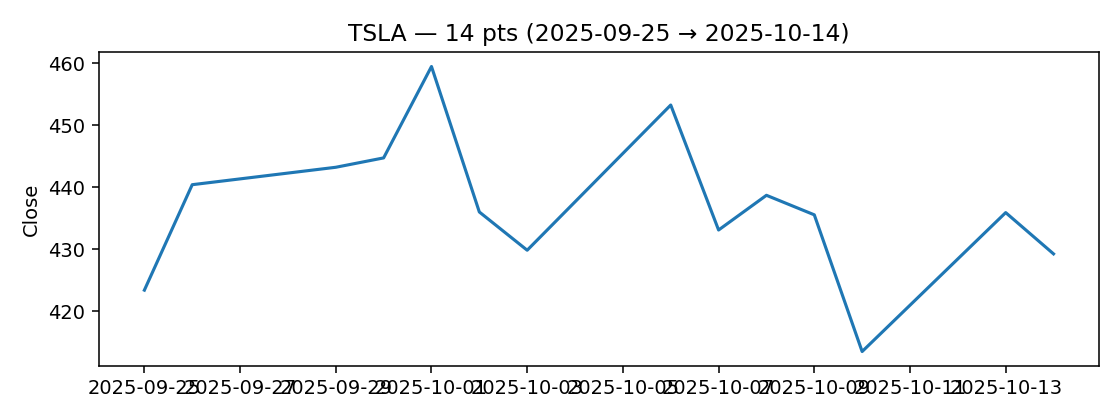
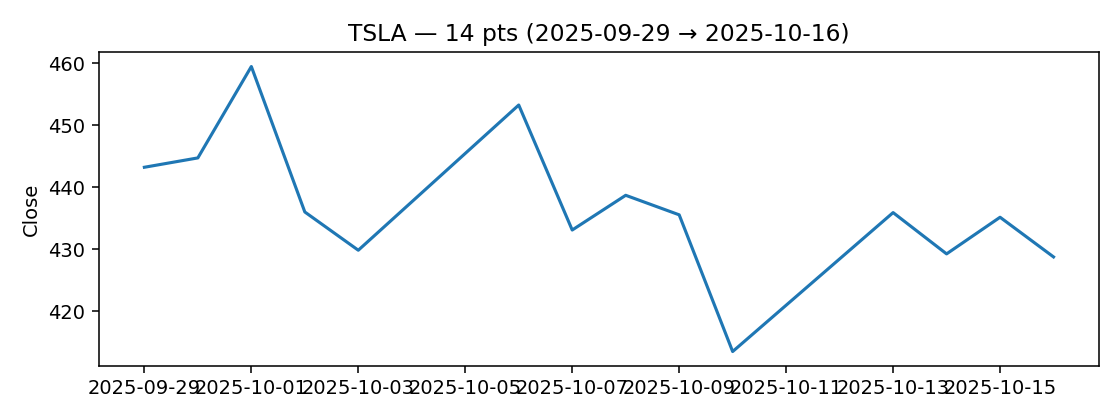
chore: update daily report 2025-10-17 09:00

diff --git a/docs/daily_report.html b/docs/daily_report.html
@@ -108,7 +108,7 @@
   <header>
     <div>
       <h1>Daily Study & News Companion</h1>
-      <div class="sub">2025-10-16 08:29 · TZ: CST</div>
+      <div class="sub">2025-10-17 09:00 · TZ: CST</div>
     </div>
     <button class="btn" id="themeBtn">🌓 Tema</button>
   </header>
@@ -150,11 +150,11 @@
           </div>
           <div class="mkt-body">
             <div class="metrics-row">
-          <div class="kv"><span>Last</span><b>215.57</b></div>
-          <div class="kv"><span>d/d</span><b class="down">-1.92%</b></div>
-          <div class="kv"><span>Mín</span><b>215.57</b></div>
+          <div class="kv"><span>Last</span><b>214.47</b></div>
+          <div class="kv"><span>d/d</span><b class="down">-3.47%</b></div>
+          <div class="kv"><span>Mín</span><b>214.47</b></div>
           <div class="kv"><span>Máx</span><b>227.74</b></div>
-          <div class="kv"><span>σ</span><b>3.20</b></div>
+          <div class="kv"><span>σ</span><b>3.57</b></div>
         </div>
             <div class="chart"><img src="charts/AMZN_close.png" alt="AMZN chart" loading="lazy"/></div>
           </div>
@@ -167,11 +167,11 @@
           </div>
           <div class="mkt-body">
             <div class="metrics-row">
-          <div class="kv"><span>Last</span><b>513.43</b></div>
-          <div class="kv"><span>d/d</span><b class="up">0.39%</b></div>
+          <div class="kv"><span>Last</span><b>511.61</b></div>
+          <div class="kv"><span>d/d</span><b class="down">-0.58%</b></div>
           <div class="kv"><span>Mín</span><b>510.96</b></div>
           <div class="kv"><span>Máx</span><b>528.57</b></div>
-          <div class="kv"><span>σ</span><b>5.22</b></div>
+          <div class="kv"><span>σ</span><b>5.21</b></div>
         </div>
             <div class="chart"><img src="charts/MSFT_close.png" alt="MSFT chart" loading="lazy"/></div>
           </div>
@@ -184,13 +184,30 @@
           </div>
           <div class="mkt-body">
             <div class="metrics-row">
-          <div class="kv"><span>Last</span><b>179.83</b></div>
-          <div class="kv"><span>d/d</span><b class="up">0.92%</b></div>
-          <div class="kv"><span>Mín</span><b>178.19</b></div>
+          <div class="kv"><span>Last</span><b>181.81</b></div>
+          <div class="kv"><span>d/d</span><b class="down">-0.02%</b></div>
+          <div class="kv"><span>Mín</span><b>179.83</b></div>
           <div class="kv"><span>Máx</span><b>192.57</b></div>
-          <div class="kv"><span>σ</span><b>4.01</b></div>
+          <div class="kv"><span>σ</span><b>3.64</b></div>
         </div>
             <div class="chart"><img src="charts/NVDA_close.png" alt="NVDA chart" loading="lazy"/></div>
+          </div>
+        </div>
+        
+        <div class="mkt-card">
+          <div class="mkt-head">
+            <div class="ticker">TSLA</div>
+            <button class="mini pill" onclick="this.closest('.mkt-card').classList.toggle('big')">↕</button>
+          </div>
+          <div class="mkt-body">
+            <div class="metrics-row">
+          <div class="kv"><span>Last</span><b>428.75</b></div>
+          <div class="kv"><span>d/d</span><b class="down">-3.26%</b></div>
+          <div class="kv"><span>Mín</span><b>413.49</b></div>
+          <div class="kv"><span>Máx</span><b>459.46</b></div>
+          <div class="kv"><span>σ</span><b>10.77</b></div>
+        </div>
+            <div class="chart"><img src="charts/TSLA_close.png" alt="TSLA chart" loading="lazy"/></div>
           </div>
         </div>
         
@@ -201,11 +218,11 @@
           </div>
           <div class="mkt-body">
             <div class="metrics-row">
-          <div class="kv"><span>Last</span><b>665.17</b></div>
-          <div class="kv"><span>d/d</span><b class="up">0.51%</b></div>
+          <div class="kv"><span>Last</span><b>660.64</b></div>
+          <div class="kv"><span>d/d</span><b class="down">-0.46%</b></div>
           <div class="kv"><span>Mín</span><b>653.02</b></div>
           <div class="kv"><span>Máx</span><b>673.11</b></div>
-          <div class="kv"><span>σ</span><b>5.07</b></div>
+          <div class="kv"><span>σ</span><b>5.15</b></div>
         </div>
             <div class="chart"><img src="charts/^GSPC_close.png" alt="^GSPC chart" loading="lazy"/></div>
           </div>
@@ -233,38 +250,38 @@
             <ul class="news-list">
               <li class="news-item" data-topic="AI">
                 <span class="dot"></span>
-                <a href="https://www.bloomberg.com/news/articles/2025-10-16/uber-giving-some-us-drivers-option-to-earn-money-from-tasks-like-uploading-menus" target="_blank" rel="noreferrer">Uber Launches Data Tasks as Option for Some US Drivers to Earn Money</a>
-                <div class="meta">2025-10-16 13:29 · <span class="src">Natalie Lung</span></div>
+                <a href="https://www.bloomberg.com/news/articles/2025-10-17/openai-s-deals-with-broadcom-amd-show-how-big-ai-market-can-be" target="_blank" rel="noreferrer">OpenAI’s Deals With Broadcom and AMD Show How Big AI Market Can Be</a>
+                <div class="meta">2025-10-17 10:28 · <span class="src">Carmen Reinicke, Ryan Vlastelica</span></div>
               </li>
             
               <li class="news-item" data-topic="AI">
                 <span class="dot"></span>
-                <a href="https://www.bloomberg.com/news/articles/2025-10-16/microsoft-wants-us-talking-to-windows-11-with-new-ai-features" target="_blank" rel="noreferrer">Microsoft Wants Us Talking to Windows 11 With New AI Features</a>
-                <div class="meta">2025-10-16 13:00 · <span class="src">Brody Ford, Matt Day</span></div>
+                <a href="https://www.bloomberg.com/news/articles/2025-10-17/openai-halts-mlk-depictions-in-sora-after-disrespectful-videos" target="_blank" rel="noreferrer">OpenAI Halts Depictions of MLK After ‘Disrespectful’ Videos</a>
+                <div class="meta">2025-10-17 08:54 · <span class="src">Shona Ghosh</span></div>
               </li>
             
               <li class="news-item" data-topic="AI">
                 <span class="dot"></span>
-                <a href="https://www.bloomberg.com/news/articles/2025-10-16/intel-amd-equity-giveaways-send-stocks-soaring-despite-dilution" target="_blank" rel="noreferrer">Intel, AMD Equity Giveaways Send Stocks Soaring Despite Dilution</a>
-                <div class="meta">2025-10-16 10:48 · <span class="src">Jeran Wittenstein, Carmen Reinicke</span></div>
+                <a href="https://www.bloomberg.com/news/articles/2025-10-17/nigeria-ai-data-center-projects-draw-in-1-billion-investment" target="_blank" rel="noreferrer">AI Boom Sparks Billion-Dollar Data Center Race in Nigeria</a>
+                <div class="meta">2025-10-17 04:00 · <span class="src">Ruth Olurounbi</span></div>
               </li>
             
               <li class="news-item" data-topic="AI">
                 <span class="dot"></span>
-                <a href="https://www.bloomberg.com/news/articles/2025-10-16/infosys-narrows-revenue-outlook-as-clients-resume-it-spending" target="_blank" rel="noreferrer">Infosys Lifts Sales Outlook on Hopes of Rebound in IT Spends</a>
-                <div class="meta">2025-10-16 10:48 · <span class="src">Sankalp Phartiyal</span></div>
+                <a href="https://www.bloomberg.com/news/newsletters/2025-10-16/why-openai-is-pushing-to-design-its-own-ai-chips" target="_blank" rel="noreferrer">Why OpenAI Is Pushing to Design Its Own AI Chips</a>
+                <div class="meta">2025-10-16 20:32 · <span class="src">Shirin Ghaffary</span></div>
               </li>
             
               <li class="news-item" data-topic="AI">
                 <span class="dot"></span>
-                <a href="https://www.bloomberg.com/news/articles/2025-10-16/nvidia-partners-in-2-9-billion-australia-data-center-drive" target="_blank" rel="noreferrer">Nvidia Partners in $2.9 Billion Australia Data Center Drive</a>
-                <div class="meta">2025-10-16 04:40 · <span class="src">Keira Wright</span></div>
+                <a href="https://www.bloomberg.com/news/videos/2025-10-16/bloomberg-tech-10-16-2025-video" target="_blank" rel="noreferrer">TSMC Beats Expectations, Raises Revenue Outlook | Bloomberg Tech 10/16/2025</a>
+                <div class="meta">2025-10-16 20:26 · <span class="src">www.bloomberg.com</span></div>
               </li>
             
               <li class="news-item" data-topic="AI">
                 <span class="dot"></span>
-                <a href="https://www.bloomberg.com/news/articles/2025-10-15/ken-griffin-says-genai-fails-to-help-hedge-funds-produce-alpha" target="_blank" rel="noreferrer">Griffin Says GenAI Fails to Help Hedge Funds Beat Markets</a>
-                <div class="meta">2025-10-15 23:10 · <span class="src">Hema Parmar</span></div>
+                <a href="https://www.bloomberg.com/news/articles/2025-10-16/benioff-slammed-by-longtime-vc-ally-over-call-for-troops-in-san-francisco" target="_blank" rel="noreferrer">Benioff Slammed by Longtime VC Ally Over Call for Troops in San Francisco</a>
+                <div class="meta">2025-10-16 20:12 · <span class="src">Biz Carson, Felipe Marques</span></div>
               </li>
             </ul>
           </div>
@@ -274,38 +291,38 @@
             <ul class="news-list">
               <li class="news-item" data-topic="Fintech">
                 <span class="dot"></span>
-                <a href="https://www.bloomberg.com/news/videos/2025-10-16/fed-s-waller-on-careful-rate-cuts-labor-market-ai-video" target="_blank" rel="noreferrer">Fed’s Waller on Careful Rate Cuts, Labor Market Concerns, AI</a>
-                <div class="meta">2025-10-16 12:46 · <span class="src">www.bloomberg.com</span></div>
+                <a href="https://www.bloomberg.com/news/articles/2025-10-17/central-banker-sees-colombia-interest-rate-hike-on-the-table" target="_blank" rel="noreferrer">Central Banker Sees Colombia Interest Rate Hike on the Table</a>
+                <div class="meta">2025-10-17 13:30 · <span class="src">Zijia Song, Oscar Medina</span></div>
               </li>
             
               <li class="news-item" data-topic="Fintech">
                 <span class="dot"></span>
-                <a href="https://www.bloomberg.com/news/articles/2025-10-16/varde-backed-spanish-bank-plans-srt-tied-to-credit-card-loans" target="_blank" rel="noreferrer">Varde-Backed Spanish Bank Plans SRT Tied to Credit Card Loans</a>
-                <div class="meta">2025-10-16 12:19 · <span class="src">Esteban Duarte, Jorge Zuloaga</span></div>
+                <a href="https://www.bloomberg.com/news/videos/2025-10-17/the-opening-trade-10-17-video" target="_blank" rel="noreferrer">Credit Jitters Deepen Bank Losses, Defense Stocks Fall on Trump-Putin Meeting | Opening Trade 10/17</a>
+                <div class="meta">2025-10-17 13:05 · <span class="src">www.bloomberg.com</span></div>
               </li>
             
               <li class="news-item" data-topic="Fintech">
                 <span class="dot"></span>
-                <a href="https://www.bloomberg.com/news/articles/2025-10-16/ecb-s-dolenc-sees-less-pronounced-inflation-undershoot-next-year" target="_blank" rel="noreferrer">ECB’s Dolenc Sees Less-Pronounced Inflation Undershoot Next Year</a>
-                <div class="meta">2025-10-16 12:16 · <span class="src">Mark Schroers, Alexander Weber</span></div>
+                <a href="https://www.bloomberg.com/news/articles/2025-10-17/bank-of-italy-cuts-growth-forecast-for-2026-on-trade-tensions" target="_blank" rel="noreferrer">Bank of Italy Cuts Growth Forecast for 2026 on Trade Tensions</a>
+                <div class="meta">2025-10-17 13:00 · <span class="src">Alessandra Migliaccio</span></div>
               </li>
             
               <li class="news-item" data-topic="Fintech">
                 <span class="dot"></span>
-                <a href="https://www.bloomberg.com/news/videos/2025-10-16/fed-s-waller-calls-for-cautious-approach-to-rate-cuts-video" target="_blank" rel="noreferrer">Fed’s Waller Calls for Cautious Approach to Rate Cuts</a>
-                <div class="meta">2025-10-16 12:08 · <span class="src">www.bloomberg.com</span></div>
+                <a href="https://www.bloomberg.com/news/videos/2025-10-17/deutsche-bank-ceo-sees-no-credit-deterioration" target="_blank" rel="noreferrer">Deutsche Bank CEO Sees No Credit Deterioration</a>
+                <div class="meta">2025-10-17 12:53 · <span class="src">www.bloomberg.com</span></div>
               </li>
             
               <li class="news-item" data-topic="Fintech">
                 <span class="dot"></span>
-                <a href="https://www.bloomberg.com/news/articles/2025-10-16/fintech-glow-raises-65-million-backed-by-apollo-cable-cowboy-malone" target="_blank" rel="noreferrer">Fintech Glow Raises $65 Million Backed by Apollo, ‘Cable Cowboy’ Malone</a>
-                <div class="meta">2025-10-16 11:00 · <span class="src">Jillian Deutsch</span></div>
+                <a href="https://www.bloomberg.com/news/articles/2025-10-17/france-pushes-europe-to-delay-bank-trading-capital-rules-again" target="_blank" rel="noreferrer">France Pushes EU to Delay Bank Trading Capital Rules Again</a>
+                <div class="meta">2025-10-17 10:03 · <span class="src">Claudia Cohen, Laura Noonan</span></div>
               </li>
             
               <li class="news-item" data-topic="Fintech">
                 <span class="dot"></span>
-                <a href="https://www.bloomberg.com/news/articles/2025-10-15/fcc-moves-to-boot-major-hong-kong-carrier-from-us-networks" target="_blank" rel="noreferrer">US Weighs Ban on Richard Li’s HKT as China Tensions Rise</a>
-                <div class="meta">2025-10-15 22:01 · <span class="src">Shirley Zhao, Kelcee Griffis</span></div>
+                <a href="https://www.bloomberg.com/news/articles/2025-10-16/stock-market-today-dow-s-p-live-updates" target="_blank" rel="noreferrer">Stocks Rise as Trump Soothes Wall Street Nerves: Market Wrap</a>
+                <div class="meta">2025-10-16 22:24 · <span class="src">Rita Nazareth</span></div>
               </li>
             </ul>
           </div>
@@ -315,38 +332,38 @@
             <ul class="news-list">
               <li class="news-item" data-topic="General">
                 <span class="dot"></span>
-                <a href="https://www.bloomberg.com/news/articles/2025-10-16/europe-s-ipo-wave-puts-discount-math-at-top-of-buyer-checklists" target="_blank" rel="noreferrer">Europe’s IPO Wave Puts Discount Math at Top of Buyer Checklists</a>
-                <div class="meta">2025-10-16 13:28 · <span class="src">Pablo Mayo Cerqueiro</span></div>
+                <a href="https://www.bloomberg.com/news/videos/2025-10-17/trump-calls-threatened-high-tariffs-on-china-not-sustainable" target="_blank" rel="noreferrer">Trump Says Threatened Tariffs on China ‘Not Sustainable’</a>
+                <div class="meta">2025-10-17 13:28 · <span class="src">www.bloomberg.com</span></div>
               </li>
             
               <li class="news-item" data-topic="General">
                 <span class="dot"></span>
-                <a href="https://www.bloomberg.com/news/articles/2025-10-16/miami-office-for-citadel-microsoft-gains-25-000-members-club" target="_blank" rel="noreferrer">Miami Office for Citadel, Microsoft Gains $25,000 Members Club</a>
-                <div class="meta">2025-10-16 13:14 · <span class="src">Anna J Kaiser</span></div>
+                <a href="https://www.bloomberg.com/news/articles/2025-10-17/fed-s-policy-benchmark-rate-rises-for-third-time-in-a-month" target="_blank" rel="noreferrer">Fed’s Policy Benchmark Rate Rises for Third Time in a Month</a>
+                <div class="meta">2025-10-17 13:14 · <span class="src">Alex Harris</span></div>
               </li>
             
               <li class="news-item" data-topic="General">
                 <span class="dot"></span>
-                <a href="https://www.bloomberg.com/news/videos/2025-10-16/us-energy-secretary-chris-wright-on-rising-energy-costs-video" target="_blank" rel="noreferrer">AI Infrastructure Will Make Electricity More Affordable, US Energy Secretary Says</a>
-                <div class="meta">2025-10-16 13:12 · <span class="src">www.bloomberg.com</span></div>
+                <a href="https://www.bloomberg.com/news/articles/2025-10-17/wall-street-races-to-sell-risky-etfs-as-crypto-crash-hits-retail" target="_blank" rel="noreferrer">Wall Street Races to Sell Risky ETFs as Crypto Crash Hits Retail</a>
+                <div class="meta">2025-10-17 13:04 · <span class="src">Isabelle Lee</span></div>
               </li>
             
               <li class="news-item" data-topic="General">
                 <span class="dot"></span>
-                <a href="https://www.bloomberg.com/news/articles/2025-10-16/fed-s-waller-calls-for-careful-rate-cuts-to-support-labor-market" target="_blank" rel="noreferrer">Fed’s Waller Calls for Careful Cuts, Miran Wants Bigger Move</a>
-                <div class="meta">2025-10-16 11:53 · <span class="src">Jonnelle Marte, Maria Eloisa Capurro, Amara Omeokwe</span></div>
+                <a href="https://www.bloomberg.com/news/articles/2025-10-17/us-initial-jobless-claims-fell-last-week-state-data-suggests" target="_blank" rel="noreferrer">US Initial Jobless Claims Fell Last Week, State Data Suggest</a>
+                <div class="meta">2025-10-17 12:59 · <span class="src">Nazmul Ahasan</span></div>
               </li>
             
               <li class="news-item" data-topic="General">
                 <span class="dot"></span>
-                <a href="https://www.bloomberg.com/news/articles/2025-10-16/indian-refiners-to-take-less-russian-oil-after-trump-comments" target="_blank" rel="noreferrer">India Refiners to Trim Russia Oil Buying as Trump Sows Confusion</a>
-                <div class="meta">2025-10-16 05:37 · <span class="src">Rakesh Sharma, Yongchang Chin</span></div>
+                <a href="https://www.bloomberg.com/news/articles/2025-10-17/bessent-says-us-treasury-bought-argentine-pesos-at-parallel-rate" target="_blank" rel="noreferrer">Argentina’s Peso Falls After US Treasury Intervenes Again</a>
+                <div class="meta">2025-10-17 12:58 · <span class="src">Patrick Gillespie, Nicolle Yapur</span></div>
               </li>
             
               <li class="news-item" data-topic="General">
                 <span class="dot"></span>
-                <a href="https://www.bloomberg.com/news/articles/2025-10-15/stock-market-today-dow-s-p-live-updates" target="_blank" rel="noreferrer">Stocks Get Tech Boost as TSMC Rekindles AI Wagers: Markets Wrap</a>
-                <div class="meta">2025-10-15 22:27 · <span class="src">Rita Nazareth</span></div>
+                <a href="https://www.bloomberg.com/news/articles/2025-10-17/arthur-hayes-family-office-seeks-250-million-for-buyout-fund" target="_blank" rel="noreferrer">Arthur Hayes’ Family Office Seeks $250 Million for Buyout Fund</a>
+                <div class="meta">2025-10-17 12:30 · <span class="src">Suvashree Ghosh</span></div>
               </li>
             </ul>
           </div>
@@ -356,38 +373,38 @@
             <ul class="news-list">
               <li class="news-item" data-topic="Machine Learning">
                 <span class="dot"></span>
-                <a href="https://www.bloomberg.com/news/videos/2025-10-16/premium-travel-is-driving-demand-united-airlines-ceo-says" target="_blank" rel="noreferrer">Premium Travel Is Driving Demand, United Airlines CEO Says</a>
-                <div class="meta">2025-10-16 13:22 · <span class="src">www.bloomberg.com</span></div>
+                <a href="https://www.bloomberg.com/news/videos/2025-10-17/ecb-s-sleijpen-sees-policy-in-a-good-place-video" target="_blank" rel="noreferrer">ECB’s Sleijpen Sees Policy ‘In a Good Place’</a>
+                <div class="meta">2025-10-17 14:10 · <span class="src">www.bloomberg.com</span></div>
               </li>
             
               <li class="news-item" data-topic="Machine Learning">
                 <span class="dot"></span>
-                <a href="https://www.bloomberg.com/news/articles/2025-10-16/driverless-waymos-set-to-deliver-doordash-orders-in-phoenix" target="_blank" rel="noreferrer">Driverless Waymos Set to Deliver DoorDash Orders in Phoenix</a>
-                <div class="meta">2025-10-16 13:00 · <span class="src">Natalie Lung</span></div>
+                <a href="https://www.bloomberg.com/news/articles/2025-10-17/giorgetti-says-italian-banks-can-help-pay-for-meloni-s-tax-cuts" target="_blank" rel="noreferrer">Giorgetti Says Italian Banks Can Help Pay for Meloni’s Tax Cuts</a>
+                <div class="meta">2025-10-17 13:15 · <span class="src">Donato Paolo Mancini</span></div>
               </li>
             
               <li class="news-item" data-topic="Machine Learning">
                 <span class="dot"></span>
-                <a href="https://www.bloomberg.com/news/articles/2025-10-16/manpowergroup-returns-to-growth-showing-stable-jobs-market" target="_blank" rel="noreferrer">ManpowerGroup Returns to Growth, Showing Stable Jobs Market</a>
-                <div class="meta">2025-10-16 12:09 · <span class="src">Rachel Phua</span></div>
+                <a href="https://www.bloomberg.com/news/videos/2025-10-17/regional-bank-issues-may-lead-to-consolidation-sonders-video" target="_blank" rel="noreferrer">Regional Bank Issues May Lead to Consolidation: Sonders</a>
+                <div class="meta">2025-10-17 12:27 · <span class="src">www.bloomberg.com</span></div>
               </li>
             
               <li class="news-item" data-topic="Machine Learning">
                 <span class="dot"></span>
-                <a href="https://www.bloomberg.com/news/videos/2025-10-16/carlyle-s-thomas-on-ai-s-impact-on-the-fed-us-economy-video" target="_blank" rel="noreferrer">Carlyle’s Thomas on AI’s Impact on the Fed Policy, US Economy</a>
-                <div class="meta">2025-10-16 11:53 · <span class="src">www.bloomberg.com</span></div>
+                <a href="https://www.bloomberg.com/news/articles/2025-10-17/blackrock-backed-suez-halts-process-to-sell-chinese-water-assets-sources-say" target="_blank" rel="noreferrer">BlackRock-Backed Suez Halts Process to Sell Chinese Water Assets, Sources Say</a>
+                <div class="meta">2025-10-17 11:53 · <span class="src">Francois de Beaupuy, Manuel Baigorri, Vinicy Chan</span></div>
               </li>
             
               <li class="news-item" data-topic="Machine Learning">
                 <span class="dot"></span>
-                <a href="https://www.bloomberg.com/news/videos/2025-10-16/the-opening-trade-10-16-video" target="_blank" rel="noreferrer">Nestlé to Slash 16K Jobs, TSMC Boosts Confidence in AI ‘Megatrend’ | The Opening Trade 10/16</a>
-                <div class="meta">2025-10-16 11:49 · <span class="src">www.bloomberg.com</span></div>
+                <a href="https://www.bloomberg.com/news/articles/2025-10-17/ai-chipmaker-cambricon-s-sales-soar-14-fold-with-nvidia-shut-out" target="_blank" rel="noreferrer">AI Chipmaker Cambricon’s Sales Soar 14-Fold With Nvidia Shut Out</a>
+                <div class="meta">2025-10-17 11:42 · <span class="src">Rachel Yeo</span></div>
               </li>
             
               <li class="news-item" data-topic="Machine Learning">
                 <span class="dot"></span>
-                <a href="https://www.bloomberg.com/news/articles/2025-10-16/europe-s-biggest-firms-soar-on-earnings-setting-tone-for-season" target="_blank" rel="noreferrer">Europe’s Biggest Firms Soar on Earnings, Setting Tone for Season</a>
-                <div class="meta">2025-10-16 11:21 · <span class="src">Sagarika Jaisinghani, Maggie Shiltagh</span></div>
+                <a href="https://www.bloomberg.com/news/articles/2025-10-17/ecb-agrees-policy-is-in-good-place-as-thoughts-on-future-diverge" target="_blank" rel="noreferrer">ECB Agrees Policy Is in Good Place as Thoughts on Future Diverge</a>
+                <div class="meta">2025-10-17 04:01 · <span class="src">Alexander Weber, Mark Schroers, Jana Randow</span></div>
               </li>
             </ul>
           </div>
@@ -397,7 +414,7 @@
     </main>
   </div>
 
-  <footer>Generado localmente · 2025-10-16 08:29</footer>
+  <footer>Generado localmente · 2025-10-17 09:00</footer>
 
   <script>
     'use strict';
